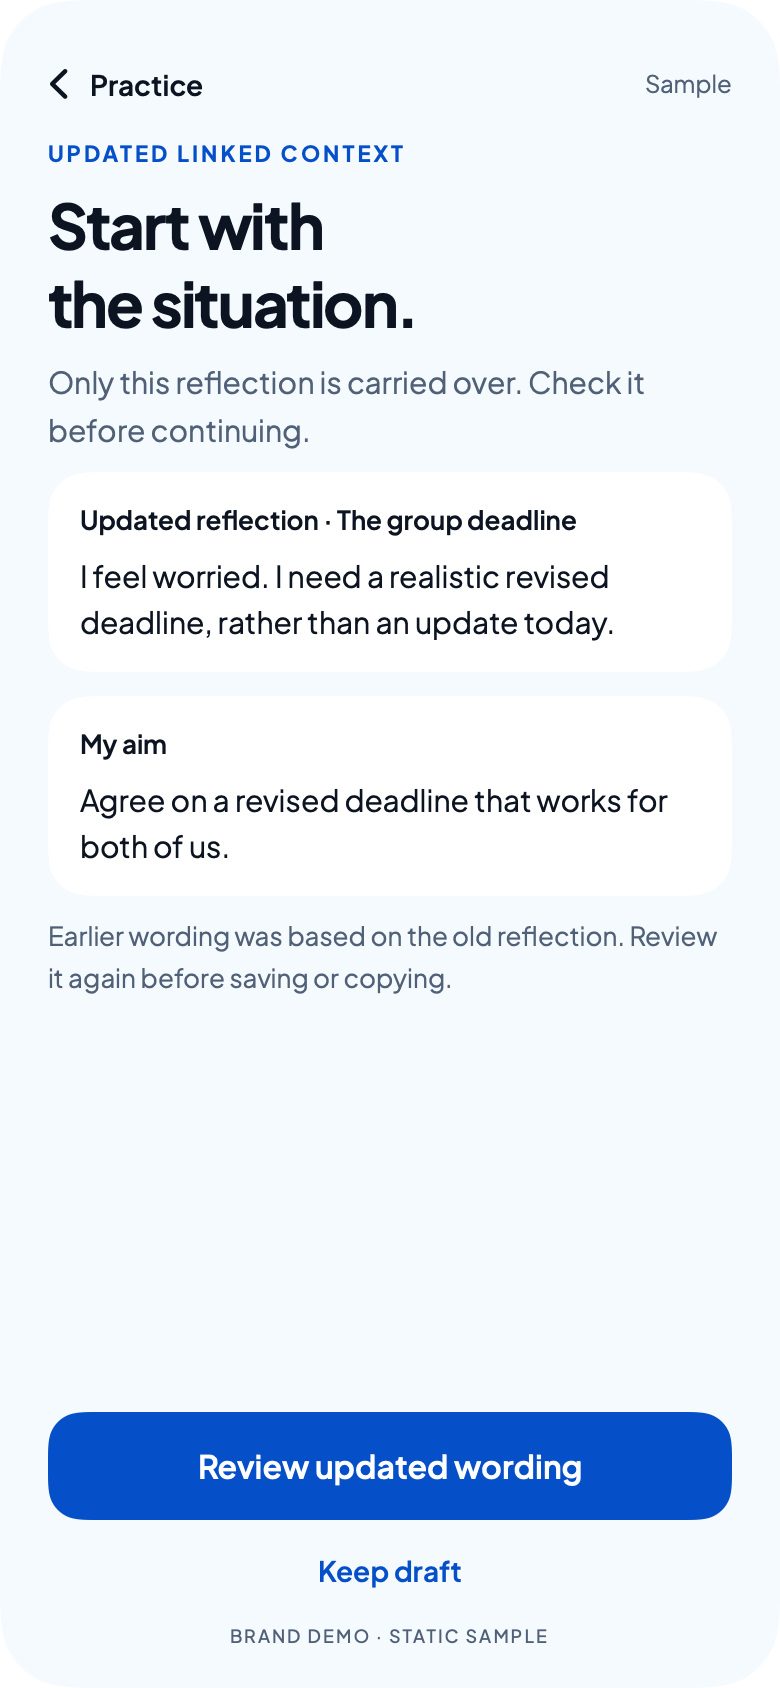
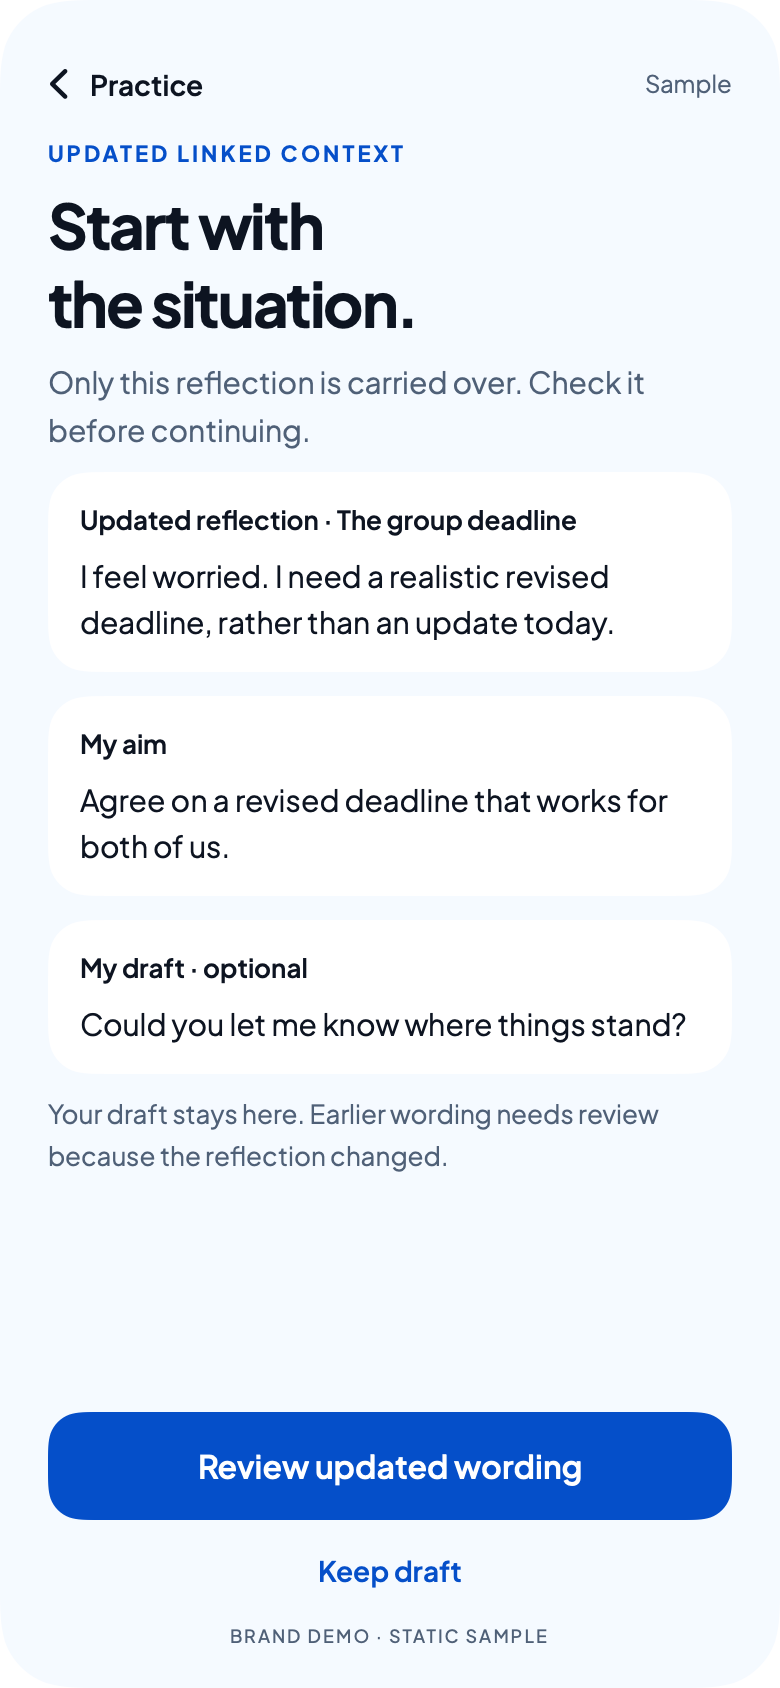
fix(prototype): preserve drafts when linked context changes
Retain the optional message draft alongside the changed-source notice, and link an actual empty-day specimen in the recovery comparison. Independent reviewer confirmed both source/document fixes; coordinator rebuilt, rendered and inspected the final corrected image. All interactions remain static.

Changed region(s): [[0.0615, 0.5545, 0.8923, 0.6161], [0.0615, 0.6469, 0.8308, 0.7085]]

diff --git a/Prototypes/CircleUVisualPrototype/Sources/CircleUVisualPrototype/BrandJourneyPreview.swift b/Prototypes/CircleUVisualPrototype/Sources/CircleUVisualPrototype/BrandJourneyPreview.swift
@@ -122,10 +122,9 @@ public struct BrandJourneyPreview: View {
             block("My aim", text: updatedSource
                 ? "Agree on a revised deadline that works for both of us."
                 : "Ask for an update and agree on a realistic plan.")
+            block("My draft · optional", text: "Could you let me know where things stand?")
             if updatedSource {
-                BrandFixture.detail("Earlier wording was based on the old reflection. Review it again before saving or copying.", size: 13)
-            } else {
-                block("My draft · optional", text: "Could you let me know where things stand?")
+                BrandFixture.detail("Your draft stays here. Earlier wording needs review because the reflection changed.", size: 13)
             }
         case .wording:
             BrandFixture.detail(linkedContext ? "Linked to The group deadline" : "Standalone practice · No journal entry", size: 12)

diff --git a/docs/agent-collaboration-log/2026-10-24-013754-codex-preview-review-fixes.md b/docs/agent-collaboration-log/2026-10-24-013754-codex-preview-review-fixes.md
@@ -1,0 +1,16 @@
+# Independent preview review and corrections
+
+- Recorded: 2026-10-24 01:37:54 +1100; Australia/Sydney.
+- Agent / role: Codex coordinator; reviewer `preview_milestone_review`.
+- Reviewed range: `3d9e012..a62d4eb` plus pending calendar/renderer changes; single coordinator edits.
+
+Reviewer inspected the six core screens, two context variants, three galleries and saved/empty/multiple calendar specimens. Found no clipping; checked original-word separation, standalone/source labels, Copy/Save distinction and calendar dates/counts. This was a source/image review, not a build, service, device or behavioral test.
+
+## Actual exchanges
+
+1. Reviewer reported P2: the updated-source context replaced the user's optional draft with a stale notice, visually implying draft loss. Coordinator accepted and retained the same draft in both context specimens, adding a separate notice that explicitly says the draft stays. Reviewer rechecked the source and confirmed resolution; regenerated pixels were still pending at their follow-up. Coordinator then rebuilt/rerendered and inspected the final updated-context PNG: draft, notice, actions and footer are present without clipping.
+2. Reviewer reported P3: the “read failure versus empty day” table linked failed/locked storage without an actual empty-day reference. Coordinator added the existing empty-day PNG and kept locked storage distinct. Reviewer confirmed resolution.
+
+No additional material issue was reported in the source/document fixes. Reviewer did not approve the forthcoming worksheet/plan-status edits; those are coordinator-owned and checked separately. All new content remains fictional and all actions static.
+
+Final correction build and renderer passed with the real-font assertion; `git diff --check` checked before commit. No app/Simulator, live Canvas, Firebase, clipboard, keyboard, accessibility, storage or source invalidation behavior was tested. Calendar/search decisions and actual walkthrough outcomes remain pending, not inferred from this review.

diff --git a/docs/design/brand-demo/core-journeys.md b/docs/design/brand-demo/core-journeys.md
@@ -34,7 +34,7 @@ These links reuse earlier connected Draft 02 scenarios. They are preset states a
 | Changed original source | [Source changed, 36:416](https://www.figma.com/design/RVLtfmIVcO8gNk5fam0Vjd?node-id=36-416) |
 | Preserved reflection/message edits after failed save | [Reflection failure, 36:396](https://www.figma.com/design/RVLtfmIVcO8gNk5fam0Vjd?node-id=36-396), [message failure, 36:397](https://www.figma.com/design/RVLtfmIVcO8gNk5fam0Vjd?node-id=36-397) |
 | Model unavailable / manual fallback | [Model unavailable, 36:389](https://www.figma.com/design/RVLtfmIVcO8gNk5fam0Vjd?node-id=36-389) |
-| Read failure versus empty day | [Storage read failure, 36:437](https://www.figma.com/design/RVLtfmIVcO8gNk5fam0Vjd?node-id=36-437), [locked storage, 36:411](https://www.figma.com/design/RVLtfmIVcO8gNk5fam0Vjd?node-id=36-411) |
+| Read failure versus empty day | [Empty-day sample](../swiftui-previews/brand-03-journal-empty.png), [storage read failure, 36:437](https://www.figma.com/design/RVLtfmIVcO8gNk5fam0Vjd?node-id=36-437); [locked storage, 36:411](https://www.figma.com/design/RVLtfmIVcO8gNk5fam0Vjd?node-id=36-411) remains a distinct condition |
 
 ## Verification boundaries
 
